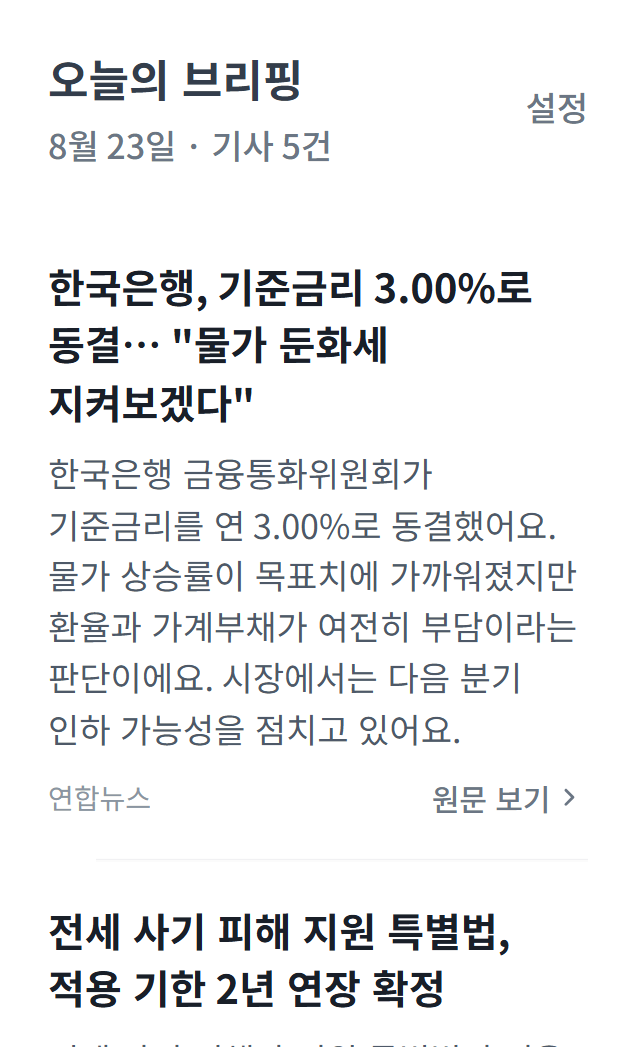
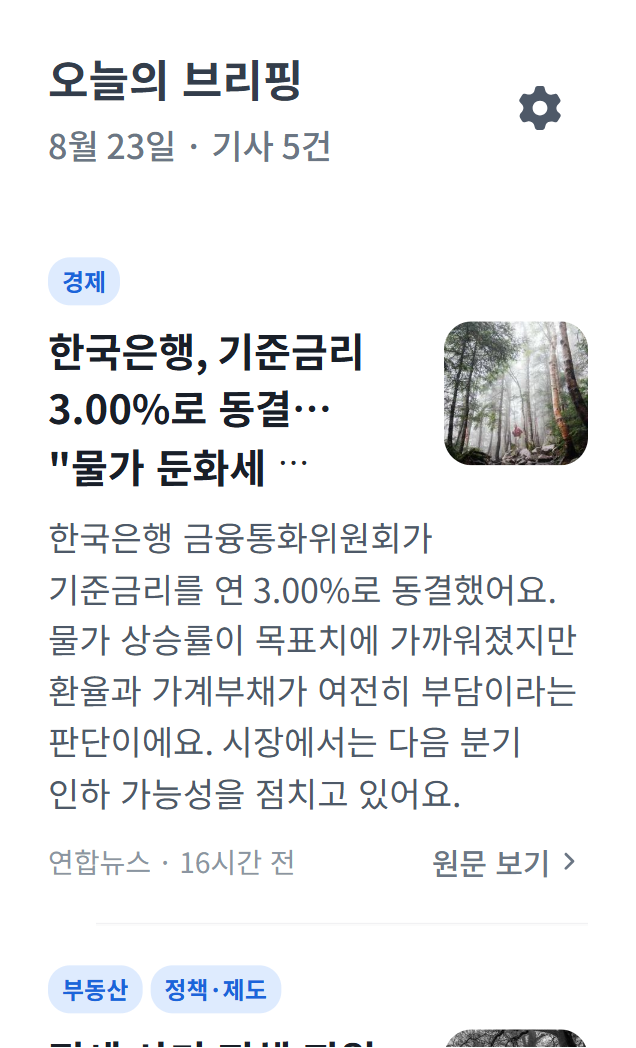
프런트: 썸네일·주제 배지·아이콘 도입 (이모지 전량 교체)
- Briefing 카드: 주제 배지 + 제목 오른쪽 72×72 썸네일(없으면 제목이
  전체 폭) + 상대 발행 시각. onError 로 로드 실패 시 영역을 접는다
- 아이콘 9자리: 인트로 가치 3줄(ListRow.AssetIcon fill), 설정 진입
  (IconButton), 배너·빈 상태·끝 마감(Asset.Icon), 설정 행 2개
  — 쓴 이름 8개 전부 CDN HEAD 200 확인
- api.ts Card 에 topics·imageUrl, mock 은 4건 채움 + 1건 없음
  (혼재 레이아웃이 정상 동작함을 스크린샷이 증명하게)
- mock 에 ?screen=empty / ?screen=yesterday 분기
- apps-in-toss.config: navigationBar 명시(withBackButton/withTitle)
- 심사 스크린샷 3장 재촬영 (636×1048 실측, AIT dev 패널 제거)
- T-006 Asset.Icon 크기는 frameShape / T-007 피드와 원문의 UA 가 다르다

Changed region(s): [[0.0597, 0.2443, 0.9261, 1.0], [0.6871, 0.9771, 0.9261, 1.0], [0.8066, 0.0611, 0.9261, 0.1221]]

diff --git a/app/src/screens/Briefing.tsx b/app/src/screens/Briefing.tsx
@@ -1,8 +1,9 @@
 import { useEffect, useState } from 'react';
 import { Device } from '@apps-in-toss/web-framework';
-import { Border, Button, Loader, Paragraph, Spacing, TextButton, Top } from '@toss/tds-mobile';
+import { Asset, Badge, Border, Button, IconButton, Loader, Paragraph, Spacing, TextButton, Top } from '@toss/tds-mobile';
 import { adaptive } from '@toss/tds-colors';
 import { getBriefing, cacheBriefing, readCachedBriefing, type BriefingResponse } from '../api';
+import { TOPIC_LABELS } from '../labels';
 
 function formatDate(d: string | null): string {
   if (d == null) return '';
@@ -10,8 +11,16 @@ function formatDate(d: string | null): string {
   return `${Number(m)}월 ${Number(day)}일`;
 }
 
+/** 발행 시각은 상대 표기로 준다 — 후보 창이 3일이라 날짜 없는 절대 시각은 오해를 만든다. */
+function formatAgo(iso: string): string {
+  const minutes = Math.floor((Date.now() - new Date(iso).getTime()) / 60_000);
+  if (minutes < 60) return '방금 전';
+  const hours = Math.floor(minutes / 60);
+  return hours < 24 ? `${hours}시간 전` : `${Math.floor(hours / 24)}일 전`;
+}
+
 /** 오프라인·어제 브리핑 안내 박스 */
-function Banner({ children }: { children: string }) {
+function Banner({ icon, children }: { icon: string; children: string }) {
   return (
     <div
       style={{
@@ -19,8 +28,15 @@ function Banner({ children }: { children: string }) {
         padding: '12px 16px',
         background: adaptive.grey50,
         borderRadius: 12,
+        display: 'flex',
+        gap: 8,
+        alignItems: 'flex-start',
       }}
     >
+      {/* Asset.Icon 은 style 을 프레임에 전달하지 않는다(실측) — 크기는 frameShape, 배치는 래퍼로 준다 */}
+      <div style={{ flexShrink: 0, marginTop: 1 }}>
+        <Asset.Icon name={icon} color={adaptive.grey600} frameShape={{ width: 18, height: 18 }} />
+      </div>
       <Paragraph typography="st10" color={adaptive.grey600}>{children}</Paragraph>
     </div>
   );
@@ -30,6 +46,8 @@ export function Briefing({ onSettings }: { onSettings: () => void }) {
   const [data, setData] = useState<BriefingResponse | null>(null);
   const [offline, setOffline] = useState(false);
   const [failed, setFailed] = useState(false);
+  // 이미지 로드 실패(CSP 차단·404)한 기사 — 썸네일 영역을 접어 텍스트 레이아웃으로 되돌린다.
+  const [broken, setBroken] = useState<ReadonlySet<number>>(() => new Set());
 
   async function load() {
     setFailed(false);
@@ -82,19 +100,19 @@ export function Briefing({ onSettings }: { onSettings: () => void }) {
           // Top 의 right 슬롯은 자체 오른쪽 여백이 없다(실측: 타이틀 left 24px 대 rightGap 0px).
           // 왼쪽 타이틀과 대칭이 되도록 24px 을 준다.
           <div style={{ paddingRight: 24 }}>
-            <TextButton size="medium" onClick={onSettings}>설정</TextButton>
+            <IconButton name="icon-setting-mono" aria-label="설정" color={adaptive.grey700} onClick={onSettings} />
           </div>
         }
       />
 
-      {offline && <Banner>오프라인이에요. 마지막으로 받은 브리핑을 보여드려요</Banner>}
+      {offline && <Banner icon="icon-info-mono">오프라인이에요. 마지막으로 받은 브리핑을 보여드려요</Banner>}
       {cards && !data.isToday && (
-        <Banner>{`어제의 브리핑이에요 · 오늘 브리핑은 ${data.nextHour}시에 도착해요`}</Banner>
+        <Banner icon="icon-clock-mono">{`어제의 브리핑이에요 · 오늘 브리핑은 ${data.nextHour}시에 도착해요`}</Banner>
       )}
 
       {cards == null && (
         <div style={{ textAlign: 'center', padding: '64px 24px' }}>
-          <Paragraph typography="t1">🥛</Paragraph>
+          <Asset.Icon name="icon-sunrise-mono" color={adaptive.orange500} frameShape={{ width: 56, height: 56 }} />
           <Spacing size={12} />
           <Paragraph typography="st9" fontWeight="semibold">첫 브리핑을 준비하고 있어요</Paragraph>
           <Spacing size={8} />
@@ -104,26 +122,61 @@ export function Briefing({ onSettings }: { onSettings: () => void }) {
         </div>
       )}
 
-      {cards?.map((c, i) => (
-        <article key={c.articleId} style={{ padding: '20px 24px 0' }}>
-          <Paragraph typography="t4" fontWeight="bold" ellipsisAfterLines={3}>{c.title}</Paragraph>
-          <Spacing size={8} />
-          <Paragraph typography="t5" color={adaptive.grey700}>{c.summaryKo}</Paragraph>
-          <Spacing size={12} />
-          <div style={{ display: 'flex', justifyContent: 'space-between', alignItems: 'center' }}>
-            <Paragraph typography="st11" color={adaptive.grey500}>{c.sourceName}</Paragraph>
-            <TextButton size="small" variant="arrow" onClick={() => Device.openURL(c.url)}>원문 보기</TextButton>
-          </div>
-          <Spacing size={20} />
-          {i < cards.length - 1 && <Border variant="padding24" />}
-        </article>
-      ))}
+      {cards?.map((c, i) => {
+        // 오프라인 캐시에 구 스키마 카드가 남아 있을 수 있어 방어적으로 읽는다.
+        const badges = (c.topics ?? []).filter((t) => TOPIC_LABELS[t]).slice(0, 2);
+        const showImage = Boolean(c.imageUrl) && !broken.has(c.articleId);
+
+        return (
+          <article key={c.articleId} style={{ padding: '20px 24px 0' }}>
+            {badges.length > 0 && (
+              <>
+                <div style={{ display: 'flex', gap: 4 }}>
+                  {badges.map((t) => (
+                    <Badge key={t} size="small" variant="weak" color="blue">{TOPIC_LABELS[t]}</Badge>
+                  ))}
+                </div>
+                <Spacing size={8} />
+              </>
+            )}
+
+            {/* 썸네일이 없으면 제목이 전체 폭을 쓴다 — 혼재가 「빈 자리」로 보이지 않는 레이아웃 */}
+            <div style={{ display: 'flex', gap: 16, alignItems: 'flex-start' }}>
+              <div style={{ flex: 1, minWidth: 0 }}>
+                <Paragraph typography="t4" fontWeight="bold" ellipsisAfterLines={3}>{c.title}</Paragraph>
+              </div>
+              {showImage && (
+                <Asset.Image
+                  src={c.imageUrl!}
+                  frameShape={{ width: 72, height: 72, radius: 14 }}
+                  objectFit="cover"
+                  loading="lazy"
+                  alt=""
+                  onError={() => setBroken((prev) => new Set(prev).add(c.articleId))}
+                />
+              )}
+            </div>
+
+            <Spacing size={8} />
+            <Paragraph typography="t5" color={adaptive.grey700}>{c.summaryKo}</Paragraph>
+            <Spacing size={12} />
+            <div style={{ display: 'flex', justifyContent: 'space-between', alignItems: 'center' }}>
+              <Paragraph typography="st11" color={adaptive.grey500}>
+                {`${c.sourceName} · ${formatAgo(c.publishedAt)}`}
+              </Paragraph>
+              <TextButton size="small" variant="arrow" onClick={() => Device.openURL(c.url)}>원문 보기</TextButton>
+            </div>
+            <Spacing size={20} />
+            {i < cards.length - 1 && <Border variant="padding24" />}
+          </article>
+        );
+      })}
 
       {cards && cards.length > 0 && (
         <>
           <Spacing size={32} />
           <div style={{ textAlign: 'center', padding: '0 24px' }}>
-            <Paragraph typography="t3">🥛</Paragraph>
+            <Asset.Icon name="icon-check-circle-mono" color={adaptive.orange600} frameShape={{ width: 32, height: 32 }} />
             <Spacing size={8} />
             <Paragraph typography="st9" fontWeight="semibold" color={adaptive.orange600}>
               오늘의 브리핑을 다 읽었어요

diff --git a/app/src/mock.ts b/app/src/mock.ts
@@ -11,6 +11,8 @@ const CARDS: Card[] = [
     sourceName: '연합뉴스',
     url: 'https://example.com/news/1',
     publishedAt: '2026-08-23T06:10:00+09:00',
+    topics: ['economy'],
+    imageUrl: 'https://picsum.photos/seed/brief1/240/240',
   },
   {
     articleId: 2,
@@ -20,6 +22,8 @@ const CARDS: Card[] = [
     sourceName: '한겨레',
     url: 'https://example.com/news/2',
     publishedAt: '2026-08-23T05:40:00+09:00',
+    topics: ['realestate', 'policy'],
+    imageUrl: 'https://picsum.photos/seed/brief2/240/240',
   },
   {
     articleId: 3,
@@ -29,6 +33,8 @@ const CARDS: Card[] = [
     sourceName: 'ZDNet Korea',
     url: 'https://example.com/news/3',
     publishedAt: '2026-08-23T04:55:00+09:00',
+    topics: ['tech', 'ai'],
+    imageUrl: 'https://picsum.photos/seed/brief3/240/240',
   },
   {
     articleId: 4,
@@ -38,6 +44,8 @@ const CARDS: Card[] = [
     sourceName: 'BBC 코리아',
     url: 'https://example.com/news/4',
     publishedAt: '2026-08-23T03:20:00+09:00',
+    topics: ['career'],
+    imageUrl: null,
   },
   {
     articleId: 5,
@@ -47,6 +55,8 @@ const CARDS: Card[] = [
     sourceName: '헬스조선',
     url: 'https://example.com/news/5',
     publishedAt: '2026-08-23T02:30:00+09:00',
+    topics: ['health'],
+    imageUrl: 'https://picsum.photos/seed/brief5/240/240',
   },
 ];
 
@@ -58,17 +68,21 @@ const ME: Me = {
   pushOn: true,
 };
 
-/** `?screen=intro` / `?screen=onboarding` 으로 시작 화면을 고른다. */
+/** `?screen=intro` / `onboarding` / `empty` / `yesterday` 로 시작 화면을 고른다. */
 const wantScreen = () => new URLSearchParams(location.search).get('screen');
 
 export const hasSession = async () => wantScreen() !== 'intro';
 
 export const login = async () => ({ onboarded: wantScreen() !== 'onboarding' });
 
-export const getBriefing = async (): Promise<BriefingResponse> =>
-  wantScreen() === 'onboarding'
-    ? { onboarded: false, date: null, isToday: false, nextHour: 7, cards: null }
-    : { onboarded: true, date: '2026-08-23', isToday: true, nextHour: null, cards: CARDS };
+export const getBriefing = async (): Promise<BriefingResponse> => {
+  switch (wantScreen()) {
+    case 'onboarding': return { onboarded: false, date: null, isToday: false, nextHour: 7, cards: null };
+    case 'empty':      return { onboarded: true, date: null, isToday: false, nextHour: 7, cards: null };
+    case 'yesterday':  return { onboarded: true, date: '2026-08-22', isToday: false, nextHour: 7, cards: CARDS };
+    default:           return { onboarded: true, date: '2026-08-23', isToday: true, nextHour: null, cards: CARDS };
+  }
+};
 
 export const getMe = async (): Promise<Me> => ME;
 

diff --git a/app/src/screens/Intro.tsx b/app/src/screens/Intro.tsx
@@ -5,9 +5,9 @@ import { login } from '../api';
 import logoUrl from '../assets/logo.png';
 
 const VALUES = [
-  { emoji: '🥛', text: '나이·직업·관심사에 맞춘 기사 5~6건' },
-  { emoji: '🌏', text: '해외 매체도 한국어 요약으로 배달돼요' },
-  { emoji: '✅', text: '다 보면 끝나는 하루치 묶음이에요' },
+  { icon: 'icon-user-mono', bg: adaptive.blue50, fg: adaptive.blue500, text: '나이·직업·관심사에 맞춘 기사 5~6건' },
+  { icon: 'icon-earth-mono', bg: adaptive.teal50, fg: adaptive.teal500, text: '해외 매체도 한국어 요약으로 배달돼요' },
+  { icon: 'icon-check-circle-mono', bg: adaptive.orange50, fg: adaptive.orange500, text: '다 보면 끝나는 하루치 묶음이에요' },
 ];
 
 export function Intro({ onDone }: { onDone: (onboarded: boolean) => void }) {
@@ -48,11 +48,11 @@ export function Intro({ onDone }: { onDone: (onboarded: boolean) => void }) {
         <List style={{ width: '100%' }}>
           {VALUES.map((v) => (
             <ListRow
-              key={v.emoji}
+              key={v.icon}
               border="none"
               verticalPadding="small"
               horizontalPadding="small"
-              left={<Paragraph typography="t4">{v.emoji}</Paragraph>}
+              left={<ListRow.AssetIcon variant="fill" size="medium" name={v.icon} backgroundColor={v.bg} color={v.fg} />}
               contents={<ListRow.Texts type="1RowTypeA" top={v.text} />}
             />
           ))}

diff --git a/app/src/screens/Settings.tsx b/app/src/screens/Settings.tsx
@@ -11,6 +11,7 @@ import {
   useBottomSheet,
   useToast,
 } from '@toss/tds-mobile';
+import { adaptive } from '@toss/tds-colors';
 import { TopicChips } from '../components/TopicChips';
 import { getMe, putMe, type Me, type MePatch } from '../api';
 
@@ -69,6 +70,7 @@ export function Settings() {
       <List>
         <ListRow
           border="none"
+          left={<ListRow.AssetIcon name="icon-alarm-mono" color={adaptive.grey600} />}
           contents={<ListRow.Texts type="1RowTypeA" top="매일 아침 알림 받기" />}
           right={<Switch checked={me.pushOn} onChange={(_, checked) => void patch({ pushOn: checked })} />}
         />
@@ -77,6 +79,7 @@ export function Settings() {
           border="none"
           withTouchEffect
           onClick={openHourSheet}
+          left={<ListRow.AssetIcon name="icon-clock-mono" color={adaptive.grey600} />}
           contents={<ListRow.Texts type="1RowTypeA" top="받을 시간" />}
           right={<Selector typography="t5" type="arrow" style={{ whiteSpace: 'nowrap' }}>{`${me.pushHour}시`}</Selector>}
         />

diff --git a/app/apps-in-toss.config.ts b/app/apps-in-toss.config.ts
@@ -6,5 +6,10 @@ export default defineConfig({
     primaryColor: '#3E7BD1', // 로고의 대표색 (파랑)
   },
   permissions: [],
+  navigationBar: {
+    withBackButton: true,   // 화면 안에 back 을 두지 않는다 — 네이티브 back 에 의존하므로 명시한다
+    withTitle: false,       // 각 화면이 자체 Top 타이틀을 그린다 — 중복 방지
+    // theme 은 일부러 두지 않는다: 명시하면 시스템 다크모드 추종을 잃을 수 있다(미검증, 실기기 확인 대상)
+  },
   webBundleDir: 'dist',
 });

diff --git a/app/src/api.ts b/app/src/api.ts
@@ -9,6 +9,7 @@ const MOCK = import.meta.env.VITE_MOCK === '1';
 export type Card = {
   articleId: number; title: string; summaryKo: string;
   sourceName: string; url: string; publishedAt: string;
+  topics: string[]; imageUrl: string | null;
 };
 
 export type BriefingResponse = {

diff --git a/changeLog.md b/changeLog.md
@@ -5,6 +5,26 @@
 
 ---
 
+## 2026-08-23 · UI 완성도 — 기사 썸네일·아이콘·주제 배지
+
+**의도**: 직전 작업이 TDS를 입혔지만 결과가 "미니멀"이 아니라 "밋밋"했다 — 이미지 0장, 아이콘 0개, OS 이모지(🥛🌏✅) 톤 불일치, 기사가 왜 골라졌는지 화면에 없음. 장식이 아니라 **정보 전달에 기여하는 시각 요소**를 되찾는다. 설계: [2026-08-23-ui-polish-design.md](docs/superpowers/specs/2026-08-23-ui-polish-design.md).
+
+**결과**:
+
+- **썸네일은 두 겹으로 모은다.** 먼저 RSS에서 공짜로 얻고(`media:thumbnail` → 이미지 타입 `media:content` → 본문 첫 `<img>`), 그래도 없는 신규 기사만 collect 잡이 원문을 받아 `og:image`로 메운다. 라이브 실측 커버리지: BBC·Ars·ZDNet은 RSS만으로 100%, 연합뉴스 89/120, 한국경제는 RSS 0/50이지만 og 백필이 채운다. 이미지 프록시·리사이즈 서버는 안 만들었다 — 원본 CDN URL 직결이고 실패하면 프런트가 영역을 접는다.
+- **언론사 로고 필터가 이 기능의 성패였다.** 표본 10건의 og:image 중 **5건이 기사 사진이 아니라 언론사 로고**였다(연합뉴스 3/5, 한국경제 2/5). 걸러내지 않으면 브리핑 카드 절반에 똑같은 로고가 붙어 없느니만 못한 화면이 된다. URL에 `logo`가 있으면 버린다 — 오탐해도 결과는 "이미지 없음"이라 최악이 현상 유지다. 실제 기사 사진(`/photo/…`)이 통과하는지도 반대 방향으로 테스트했고, 라이브 기사로 양방향 확인했다.
+- **og 백필은 collect 안에 뒀다.** 전용 Function + 크론으로 분리하면 배포 대상이 늘어난다. 하루 1회 잡이라 상한 120건·시간 예산 60초·동시 6으로 바운드하고, 남는 건 null로 둔다. 커버리지가 모자라면 그때 분리하는 승격 경로를 주석에 남겼다.
+- **레이아웃이 "이미지 혼재"를 흡수한다.** 카드 상단 히어로가 아니라 **제목 오른쪽 72×72 소형 썸네일**이라, 이미지가 없는 카드는 "빈 자리"가 아니라 "제목이 전체 폭을 쓰는 행"으로 보인다. 목 데이터를 일부러 4건 채움 + 1건 없음으로 만들어 스크린샷 자체가 이걸 증명하게 했다.
+- **아이콘 9자리 도입, OS 이모지 전량 제거.** 인트로 가치 3줄은 색 있는 `ListRow.AssetIcon`, 설정 진입은 `IconButton`, 배너·빈 상태·끝 마감은 `Asset.Icon`. 아이콘 `name`이 `string` 타입이라 타입 검사가 오타를 못 잡으므로 쓴 이름 8개를 전부 CDN HEAD로 확인했다(전부 200).
+- **주제 배지**로 "이 기사가 왜 왔는지"를 카드에 노출했다(`articles.topics` → API → `Badge`). 카드 메타에는 상대 발행 시각("16시간 전")을 붙였다 — 후보 창이 3일이라 날짜 없는 절대 시각은 오해를 만든다.
+- **대체 시각 요소는 만들지 않았다.** 이미지 없는 기사에 주제색 블록이나 이니셜 아바타를 깔면 절반이 똑같은 색 블록이 돼 오히려 더 성의 없어 보인다. 정보 기여가 0인 장식은 안 넣는다는 것이 이번 작업의 기준이다.
+
+**테스트 71 → 91건** (rss 이미지 추출 7 + og 추출 13). 새 규칙마다 돌연변이로 사살을 확인했다 — 특히 로고 필터를 제거하면 로고 테스트 3건이, 과하게 넓히면 통과 테스트까지 10건이 깨진다. 심사 스크린샷 3장은 새 화면으로 다시 찍었다(636×1048 실측).
+
+**미검증**: 앱인토스 웹뷰가 외부 이미지 도메인을 허용하는지(설정으로 제어 불가 — 차단되면 썸네일이 전부 접히고 이전 상태로 돌아간다), `navigationBar` 명시 설정의 실기기 동작, 배포 후 `ogFetched` 실측 커버리지.
+
+---
+
 ## 2026-08-23 · 화면 디자인(TDS) + 심사 스크린샷 경로
 
 **의도**: 화면 4개가 브라우저 기본 태그(h1·button·select)로만 그려져 있었다. TDS 사용 자체가 앱인토스 심사 기준이고, 심사 제출에는 세로 스크린샷 3장(636×1048)이 필요하다. 그런데 mTLS 인증서가 아직 없어 `POST /app/login`이 성공한 적이 없다 — 로그인이 필요한 브리핑·설정은 띄울 방법 자체가 없었다.

diff --git a/plan.md b/plan.md
@@ -75,6 +75,8 @@
 - [x] 브랜드 색을 로고에 맞춤 — `brand.primaryColor` `#3182F6`(토스 기본) → `#3E7BD1`
 - [x] 목 데이터 경로 — `vite dev --mode mock` + `api.ts` 게이트. 로그인 없이 4개 화면 실측 가능. prod 번들 미포함을 grep으로 확인
 - [x] 심사 제출용 세로 스크린샷 3장 (636×1048) — `store-assets/screenshots/`
+- [x] UI 완성도 — 기사 썸네일(RSS 이미지 + 원문 og:image 백필, 언론사 로고 필터), 주제 배지, TDS 아이콘 9자리 도입(OS 이모지 전량 교체), 카드 메타에 상대 발행 시각. 설계: [2026-08-23-ui-polish-design.md](docs/superpowers/specs/2026-08-23-ui-polish-design.md)
+- [ ] **배포 후**: collect 응답의 `ogFetched` 로 og 백필 실효 커버리지 확인 — 지속 0이면 Supabase 실행 한도(시간 예산 60초)를 의심한다
 - [ ] **콘솔 등록 후**: 실제 토스 로그인 흐름 검증(`TossAuth.login()` → `POST /app/login` → 세션 발급). 일반 브라우저에는 토스 SDK가 없어 로컬에서는 인트로가 뜨고 「시작하기」가 오류를 내는 것까지만 확인 가능
 - [ ] **콘솔 등록 후**: 실기기(샌드박스) 확인 — 내비게이션 바 뒤로가기 ↔ history 연동(설정 화면의 자체 「뒤로」 버튼을 지웠으므로 네이티브 바가 유일한 복귀 경로다), 웰컴 브리핑, `Device.openURL` 실동작, 재진입 시 세션 유지
 - [ ] **콘솔 등록 후**: unlink 콜백의 실제 인증 방식 확인 → 현재의 임시 공유 시크릿(`UNLINK_CALLBACK_SECRET`) 검증을 교체. 확정 전까지는 fail-closed(503/401)
@@ -108,4 +110,5 @@
 - **푸시 문구 검수 리드타임 미지** — 승인이 늦으면 출시가 밀린다. Phase 7을 앞당겨 착수하는 편이 안전하다.
 - **RSS 발췌 길이 편차** — 매체에 따라 `raw_excerpt`가 한 줄뿐일 수 있다. 요약 품질이 소스별로 갈리면 해당 소스를 내린다(본문 크롤링으로 우회하지 않는다 — 저작권 방침).
 - **LLM 요약의 내용 정확도는 형식 테스트로 못 잡는다** — 테스트 37개는 JSON 파싱·어휘 검사 같은 **형식**만 본다. 요약이 사실인지 보는 계측기는 없고, 자동화하기도 어렵다 — 실제로 정치 기사의 발언 주체가 여↔야로 뒤집힌 채로 파이프라인을 통과했다([T-004](claude-docs/troubleshooting/T-004.md)). 프롬프트 가드를 넣었으나 보장은 아니다 — 프롬프트나 소스를 고칠 때마다 실제 기사 몇 건을 눈으로 대조한다.
+- **[미검증] 앱인토스 웹뷰가 외부 이미지 도메인을 허용하는지** — `AppsInTossConfig` 에 CSP·도메인 항목이 없어 우리가 제어할 수 없다. 차단되면 썸네일이 전부 접히고 화면은 텍스트 레이아웃(= 이전 상태)으로 돌아간다. 실기기 확인 대상.
 - **소스 선정이 곧 제품 품질** — 코드보다 `sources` 목록이 체감 품질을 좌우한다. Phase 2에서 시간을 아끼지 않는다.

diff --git a/claude-docs/troubleshooting/T-006.md b/claude-docs/troubleshooting/T-006.md
@@ -1,0 +1,29 @@
+---
+summary: TDS Asset.Icon 은 style prop 을 프레임에 전달하지 않는다 — 크기 지정이 조용히 무시돼 전부 기본 24px 로 렌더된다
+---
+
+# T-006 · Asset.Icon 의 크기는 style 이 아니라 frameShape 로 준다
+
+- **증상**: 빈 상태 아이콘을 `<Asset.Icon name="icon-sunrise-mono" style={{ width: 56, height: 56 }} />` 로 넣었는데 화면에서 눈에 띄게 작았다. 타입 에러도 콘솔 경고도 없다(`style?: CSSProperties` 가 실제로 prop 에 있다). 3개 자리(배너 18px·빈 상태 56px·끝 마감 32px)에 서로 다른 크기를 줬는데 셋 다 똑같이 보이는 것이 유일한 단서였다.
+
+- **원인**: `Asset.Icon` 은 내부적으로 `Asset.Frame` 위에 아이콘을 얹는 구조이고, **프레임의 박스 크기는 `frameShape` 가 결정**한다. 넘긴 `style` 은 프레임이 아니라 안쪽 span 쪽으로 흘러 크기에 영향을 주지 않는다. DOM 실측:
+
+  ```
+  DIV  css-1vqadhc  style="width: 24px; height: 24px; background-color: transparent;"   ← 프레임(frameShape 기본값)
+   └ SPAN css-xjod4r style="--object-fit: contain; color: …"                            ← 여기에도 내 width 는 없다
+      └ svg 24x24
+  ```
+
+  즉 **없는 prop 을 넘긴 게 아니라, 있는 prop 이 크기에 안 쓰이는** 경우다. 타입 검사가 못 잡는 이유가 여기 있다.
+
+- **해결**: 크기는 `frameShape={{ width, height }}` 로 주고, 배치(`flexShrink`·`marginTop` 등)가 필요하면 **평범한 래퍼 div** 로 감싼다.
+
+  ```tsx
+  <div style={{ flexShrink: 0, marginTop: 1 }}>
+    <Asset.Icon name={icon} color={adaptive.grey600} frameShape={{ width: 18, height: 18 }} />
+  </div>
+  ```
+
+  프레임 배경은 `backgroundColor: transparent` 가 기본이라(`Asset.Frame` 문서의 `adaptive.grey100` 기본값과 달리) 회색 상자가 따라붙지 않는다. 고친 뒤 실측: 프레임 `56x56` / svg `56x56`, 좌우 `131..187`(뷰포트 318 기준 정중앙).
+
+- **재발방지**: **TDS 컴포넌트의 크기는 d.ts 에 `style` 이 있다는 이유로 `style` 로 주지 않는다** — 렌더 결과를 DOM 으로 재서 확인한다. 판별법이 값싸다: 크기를 다르게 준 자리 둘이 **같은 크기로 나오면** 그 prop 은 안 먹고 있는 것이다. 이 건은 스크린샷을 눈으로만 봤으면 "좀 작네" 로 넘어갔을 것이고, `getBoundingClientRect()` 로 수치를 뽑아서야 확정됐다 — 글로벌 CLAUDE.md 「판정에 필요한 수치를 먼저 뽑고 스크린샷은 나중에」의 사례다.

diff --git a/claude-docs/troubleshooting/T-007.md b/claude-docs/troubleshooting/T-007.md
@@ -1,0 +1,20 @@
+---
+summary: 한국경제 피드는 브라우저형 UA 에 Cloudflare 챌린지 HTML 을 준다 — 피드는 수집용 UA, 원문 페이지는 브라우저형 UA 로 갈라 써야 한다
+---
+
+# T-007 · 같은 사이트라도 피드와 원문 페이지가 요구하는 UA 가 다르다
+
+- **증상**: og:image 백필을 실측하려고 만든 스크립트에서 한국경제(`https://www.hankyung.com/feed/economy`)만 `invalid XML: Tag '=' is an invalid name.` 로 죽었다. 같은 스크립트에서 연합뉴스·BBC·Ars·ZDNet 은 전부 정상이라 "우리 파서가 이 피드만 못 읽나" 로 보였다.
+
+- **원인**: 파서가 아니라 **받아 온 것이 XML 이 아니었다.** 스크립트가 모든 요청에 브라우저형 UA 를 썼는데, 한국경제 피드는 그 UA 에 Cloudflare 챌린지 페이지를 돌려준다. UA 를 바꿔 가며 실측:
+
+  ```
+  브라우저 UA  → <!DOCTYPE html>…<title>Just a moment...</title>   (Cloudflare 챌린지)
+  collect UA   → <?xml version="1.0" encoding="UTF-8"?><rss …>      (정상 피드)
+  ```
+
+  방향이 직관과 반대다 — 보통은 커스텀 UA 가 막히고 브라우저 UA 가 통한다. 원문 **기사 페이지**는 반대로 양쪽 UA 모두 통과한다(같은 스크립트로 확인).
+
+- **해결**: 프로덕션 코드는 원래부터 UA 를 갈라 쓰고 있어 손댈 것이 없었다 — 피드 fetch 는 `morning-brief/1.0 (+…)`, 원문 og 백필만 브라우저형 UA. 고장 난 것은 실측 스크립트 쪽이었다. 고치고 다시 재니 한국경제 RSS 이미지 0/50 → og 백필로 기사 사진 3건 통과·로고 2건 차단으로, 설계가 예상한 3:2 분포가 그대로 나왔다.
+
+- **재발방지**: **"파싱 실패" 는 파서를 의심하기 전에 받아 온 바이트를 먼저 찍는다.** 응답 앞 300자만 봐도 XML 인지 챌린지 HTML 인지 즉시 갈린다. 그리고 **collect 의 피드 UA 를 브라우저형으로 "통일"하지 말 것** — 한국경제 피드가 조용히 챌린지 HTML 로 바뀌고, 파싱 예외가 소스 단위 `try/catch` 에 먹혀 그 소스만 매일 0건이 된다(같은 계열의 무성 실패는 [T-003](T-003.md)). 두 UA 가 다른 것은 실수가 아니라 실측 결과다.

diff --git a/claude-docs/troubleshooting.md b/claude-docs/troubleshooting.md
@@ -22,6 +22,8 @@
      각 항목의 frontmatter(summary)에서 재생성합니다. 내용을 바꾸려면 그 항목의
      summary를 고치세요(단일 출처). 최신 항목이 위. -->
 
+- [T-007](troubleshooting/T-007.md) · 한국경제 피드는 브라우저형 UA 에 Cloudflare 챌린지 HTML 을 준다 — 피드는 수집용 UA, 원문 페이지는 브라우저형 UA 로 갈라 써야 한다
+- [T-006](troubleshooting/T-006.md) · TDS Asset.Icon 은 style prop 을 프레임에 전달하지 않는다 — 크기 지정이 조용히 무시돼 전부 기본 24px 로 렌더된다
 - [T-005](troubleshooting/T-005.md) · TDS Selector의 화살표가 좁은 폭에서 텍스트 아래로 떨어졌다 — 컴포넌트 버그가 아니라 부모가 준 폭이 4px 모자랐던 것
 - [T-004](troubleshooting/T-004.md) · 요약이 정치 기사의 발언 주체를 여↔야로 뒤집었는데 테스트 37개는 전부 초록불이었다 — 형식 계측기는 내용의 참거짓을 보지 않는다
 - [T-003](troubleshooting/T-003.md) · 피드 검증기가 원시 태그 개수만 세는 바람에 파싱 0건인 소스를 통과시켰다 — 대리 지표 판정은 통과 쪽으로 조용히 고장 난다
